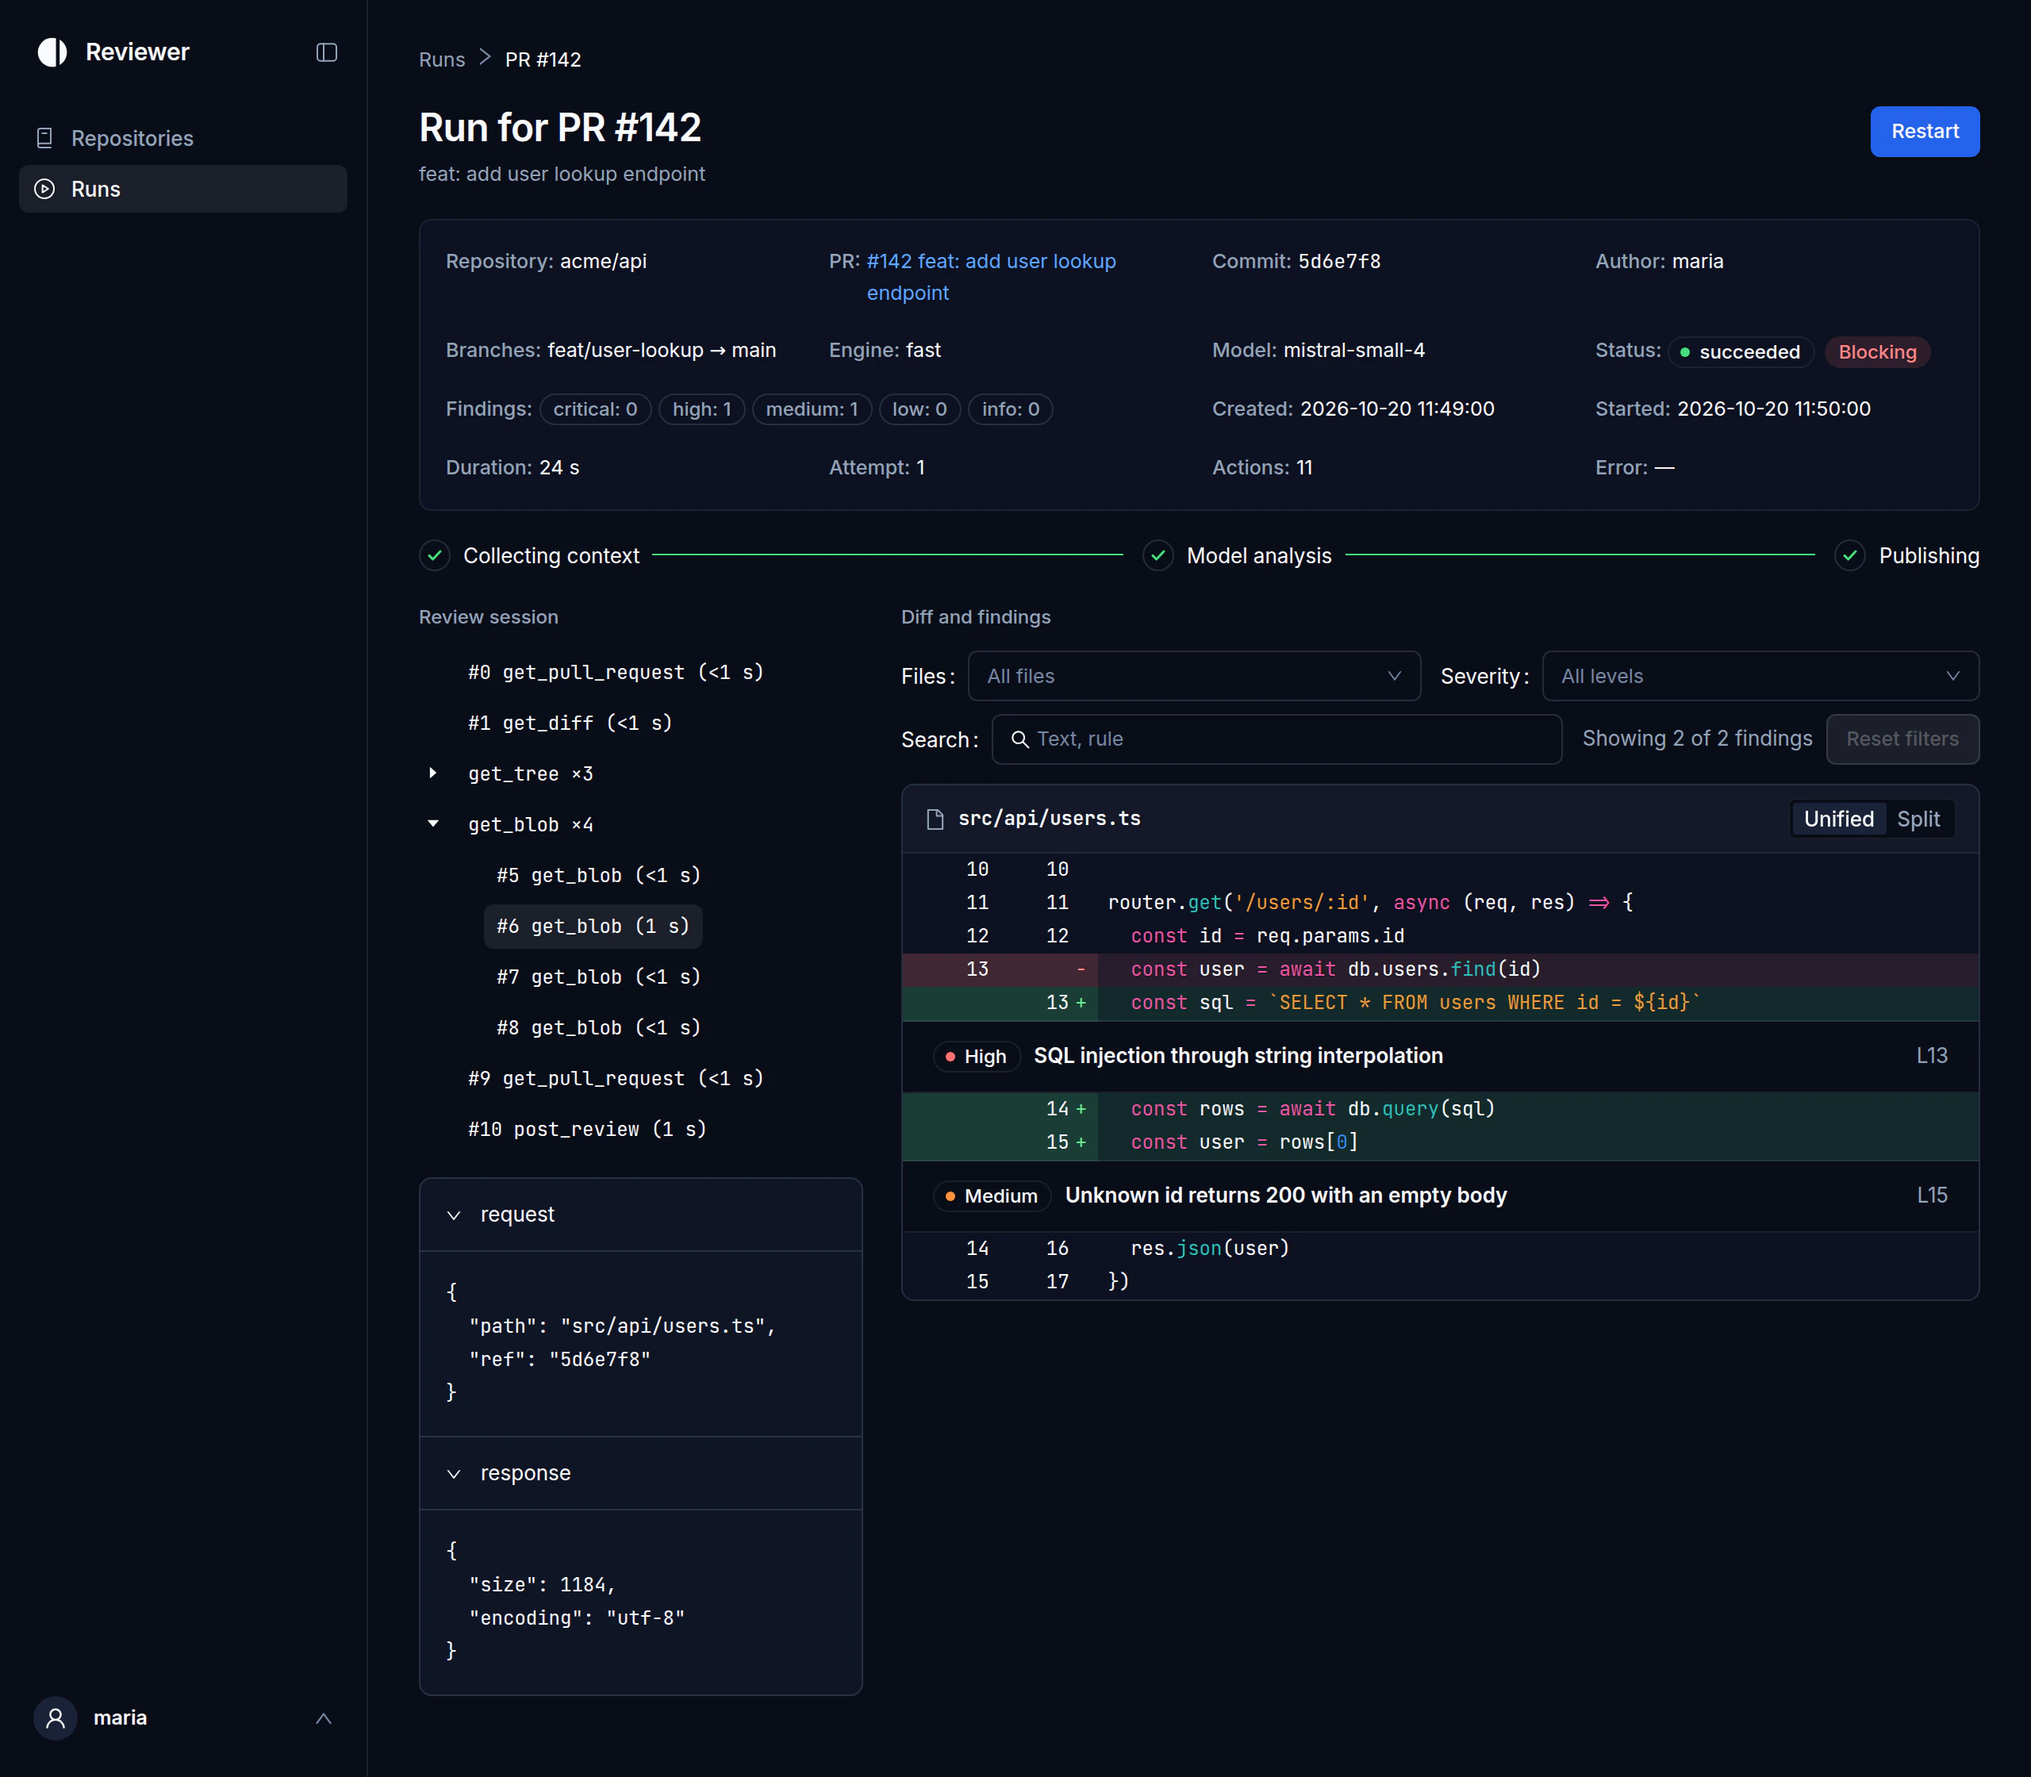
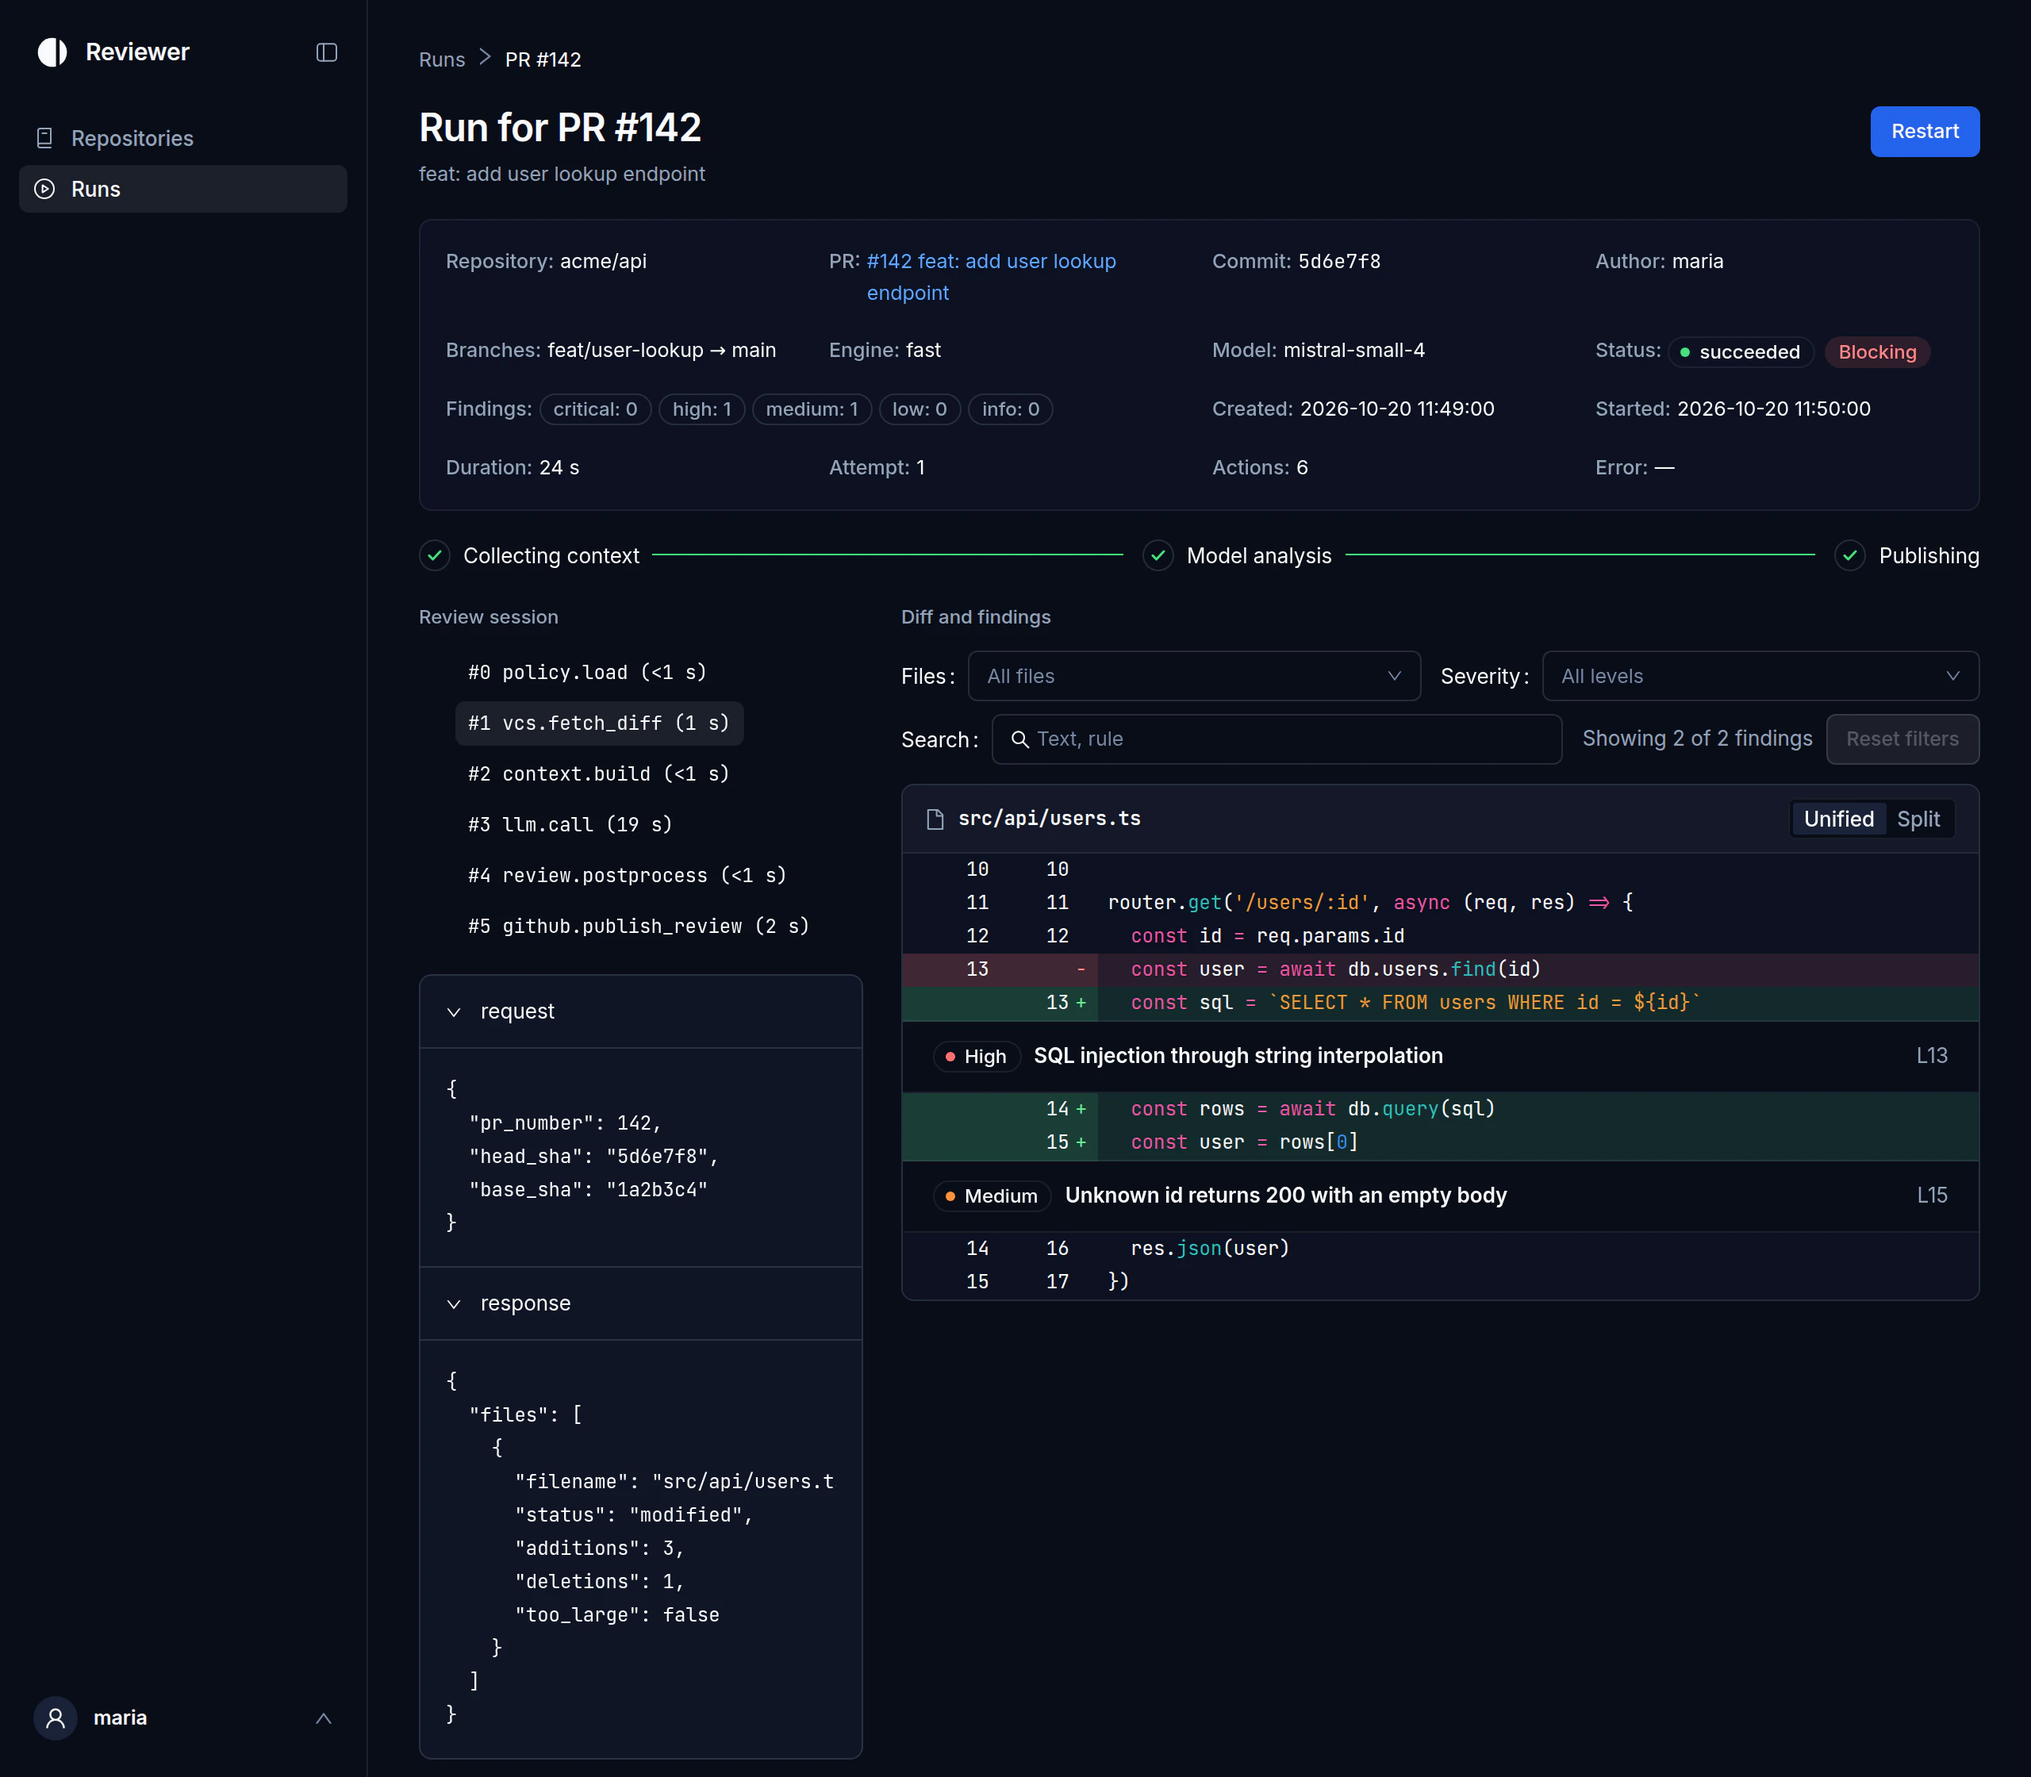
fix(docs-site): show the real run steps in the run picture
Refs #173

diff --git a/docs-site/components/dashboard/run-detail-screen.tsx b/docs-site/components/dashboard/run-detail-screen.tsx
@@ -57,39 +57,36 @@ index 1a2b3c4..5d6e7f8 100644
 `
 
 // Same tag look as SEVERITY_TAG in src/widgets/diff-viewer/ui/InlineComment.tsx.
+type Severity = 'high' | 'medium'
 const SEVERITY: Record<
-  string,
+  Severity,
   { label: string; tone: TagProps['tone']; variant: TagProps['variant'] }
 > = {
   high: { label: 'High', tone: 'critical', variant: 'dot' },
   medium: { label: 'Medium', tone: 'high', variant: 'dot' },
 }
 
-const FINDINGS = [
+const FINDINGS: readonly { line: number; severity: Severity; title: string }[] = [
   { line: 13, severity: 'high', title: 'SQL injection through string interpolation' },
   { line: 15, severity: 'medium', title: 'Unknown id returns 200 with an empty body' },
 ]
 
-// The MCP tools of a review session; a run of the same tool folds into a group, as in ActionTree.
-type Action = readonly [tool: string, time: string]
-const ACTIONS: readonly (Action | readonly Action[])[] = [
-  ['get_pull_request', '<1 s'],
-  ['get_diff', '<1 s'],
-  [
-    ['get_tree', '<1 s'],
-    ['get_tree', '<1 s'],
-    ['get_tree', '<1 s'],
-  ],
-  [
-    ['get_blob', '<1 s'],
-    ['get_blob', '1 s'],
-    ['get_blob', '<1 s'],
-    ['get_blob', '<1 s'],
-  ],
-  ['get_pull_request', '<1 s'],
-  ['post_review', '1 s'],
+// The steps a fast run writes to its log (api process_run.py, review_context_stage.py,
+// llm_call_trace.py, findings_post_processor.py, publish_run_review.py), in that order.
+const ACTIONS: readonly (readonly [tool: string, time: string])[] = [
+  ['policy.load', '<1 s'],
+  ['vcs.fetch_diff', '1 s'],
+  ['context.build', '<1 s'],
+  ['llm.call', '19 s'],
+  ['review.postprocess', '<1 s'],
+  ['github.publish_review', '2 s'],
 ]
-const SELECTED = 6
+const SELECTED = 1
+const TREE_DATA = ACTIONS.map(([tool, time], index) => ({
+  key: `action-${String(index)}`,
+  title: `#${String(index)} ${tool} (${time})`,
+  isLeaf: true,
+}))
 
 const renderChangeGutter: RenderGutter = ({ change, renderDefault, wrapInAnchor }) => (
   <span className="diff-gutter-with-marker">
@@ -128,8 +125,7 @@ function Meta({ items }: { items: { label: string; value: ReactNode; wide?: bool
 
 function FileDiff() {
   const theme = useDiffThemeStyle()
-  const [file] = useMemo(() => parseDiff(PATCH), [])
-  const hunks = file?.hunks ?? []
+  const hunks = useMemo(() => parseDiff(PATCH).at(0)?.hunks ?? [], [])
   const tokens = useMemo(
     () =>
       tokenize(hunks, { highlight: true, refractor: refractorForDiffView, language: 'typescript' }),
@@ -144,8 +140,8 @@ function FileDiff() {
       widgets[getChangeKey(change)] = (
         <div className="inline-comment">
           <RowButton className="inline-comment-row">
-            <Tag tone={tag?.tone} variant={tag?.variant}>
-              {tag?.label ?? ''}
+            <Tag tone={tag.tone} variant={tag.variant}>
+              {tag.label}
             </Tag>
             <Text className="inline-comment-title" strong>
               {finding.title}
@@ -193,23 +189,6 @@ function FileDiff() {
 }
 
 export function RunDetailScreen() {
-  let index = 0
-  const leaf = ([tool, time]: Action) => {
-    const key = `action-${String(index)}`
-    const title = `#${String(index)} ${tool} (${time})`
-    index += 1
-    return { key, title, isLeaf: true }
-  }
-  const treeData = ACTIONS.map((item) => {
-    if (typeof item[0] === 'string') return leaf(item as Action)
-    const group = item as readonly Action[]
-    const key = `group-${String(index)}`
-    return {
-      key,
-      title: `${group[0]?.[0] ?? ''} ×${String(group.length)}`,
-      children: group.map(leaf),
-    }
-  })
   return (
     <AppShell active="/runs">
       <div className={pageStyles.page}>
@@ -261,7 +240,7 @@ export function RunDetailScreen() {
                 { label: 'Started', value: '2026-10-20 11:50:00' },
                 { label: 'Duration', value: '24 s' },
                 { label: 'Attempt', value: '1' },
-                { label: 'Actions', value: '11' },
+                { label: 'Actions', value: '6' },
                 { label: 'Error', value: '—' },
               ]}
             />
@@ -277,11 +256,7 @@ export function RunDetailScreen() {
             <section className={inspectorStyles.trace}>
               <h2 className={inspectorStyles.label}>Review session</h2>
               <div className={treeStyles.root}>
-                <TraceTree
-                  defaultExpandedKeys={['group-5']}
-                  selectedKeys={[`action-${String(SELECTED)}`]}
-                  treeData={treeData}
-                />
+                <TraceTree selectedKeys={[`action-${String(SELECTED)}`]} treeData={TREE_DATA} />
                 <Collapse
                   defaultActiveKey={['request', 'response']}
                   items={[
@@ -290,7 +265,9 @@ export function RunDetailScreen() {
                       label: 'request',
                       children: (
                         <CodeBlock>
-                          {'{\n  "path": "src/api/users.ts",\n  "ref": "5d6e7f8"\n}'}
+                          {
+                            '{\n  "pr_number": 142,\n  "head_sha": "5d6e7f8",\n  "base_sha": "1a2b3c4"\n}'
+                          }
                         </CodeBlock>
                       ),
                     },
@@ -298,7 +275,11 @@ export function RunDetailScreen() {
                       key: 'response',
                       label: 'response',
                       children: (
-                        <CodeBlock>{'{\n  "size": 1184,\n  "encoding": "utf-8"\n}'}</CodeBlock>
+                        <CodeBlock>
+                          {
+                            '{\n  "files": [\n    {\n      "filename": "src/api/users.ts",\n      "status": "modified",\n      "additions": 3,\n      "deletions": 1,\n      "too_large": false\n    }\n  ]\n}'
+                          }
+                        </CodeBlock>
                       ),
                     },
                   ]}
